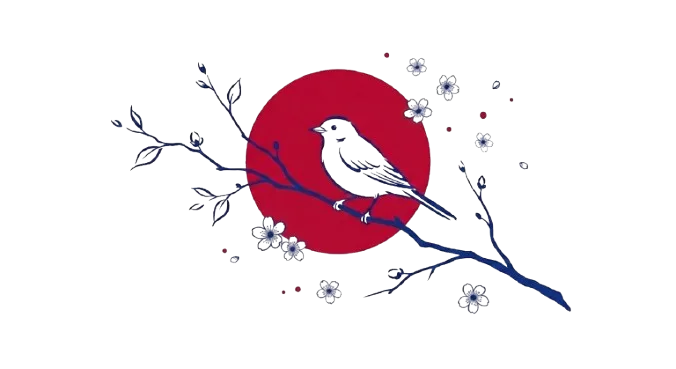
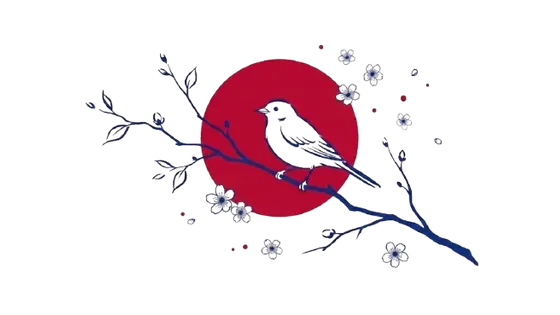
perf: remove hero video for LCP, resize hero.webp, fix contrast and headings
- Remove video element from hero entirely (was being picked as LCP candidate
  instead of the img, causing 410ms resource load delay)
- Resize hero.webp to 560x315 matching actual display size (28KB vs 30KB)
- Fix h4->h3 in About vision section (heading hierarchy skip)
- Fix text-white/20 timeline numbers -> text-white/40 (contrast)
- Fix ProductSpecs low-contrast text: /40->/60, /30->/50, /10->/30
- Add imagesrcset/imagesizes to hero preload hint

diff --git a/src/pages/Home.tsx b/src/pages/Home.tsx
@@ -127,67 +127,26 @@ function HomeProductCard({ product, index }: { product: any, index: number; key?
 }
 
 function HeroBackgroundVideo() {
-  const [isLoaded, setIsLoaded] = useState(false);
-  const videoRef = useRef<HTMLVideoElement>(null);
-
-  useEffect(() => {
-    // Defer video loading to improve FCP and prevent forced reflow
-    const timer = setTimeout(() => {
-      if (videoRef.current) {
-        // Use requestAnimationFrame to prevent forced reflow
-        requestAnimationFrame(() => {
-          if (videoRef.current) {
-            videoRef.current.load();
-            setIsLoaded(true);
-          }
-        });
-      }
-    }, 2000); // Increased delay to prevent blocking
-
-    return () => clearTimeout(timer);
-  }, []);
-
   return (
-    <>
-      {/* Static background: WebP with PNG fallback, fetchpriority=high for LCP */}
-      <div 
-        className="absolute inset-0 w-full h-full -z-10"
-        style={{ contain: 'layout style paint' }}
-      >
-        <picture>
-          <source srcSet="/hero.webp" type="image/webp" />
-          <img
-            src="/hero.png"
-            alt=""
-            aria-hidden="true"
-            fetchPriority="high"
-            loading="eager"
-            decoding="sync"
-            className="w-full h-full object-cover"
-            width="800"
-            height="600"
-          />
-        </picture>
-      </div>
-      {/* Video loads after 2s, fades in over the static image */}
-      <video 
-        ref={videoRef}
-        src="/hero_video.mp4" 
-        autoPlay
-        muted
-        loop
-        playsInline
-        preload="none"
-        aria-hidden="true"
-        className={`absolute inset-0 w-full h-full object-cover -z-10 transition-opacity duration-1000 ${isLoaded ? 'opacity-100' : 'opacity-0'}`}
-        style={{ 
-          willChange: 'opacity',
-          contain: 'layout style paint',
-        }}
-      >
-        <track kind="captions" srcLang="sq" label="Shqip" default />
-      </video>
-    </>
+    <div 
+      className="absolute inset-0 w-full h-full -z-10"
+      style={{ contain: 'layout style paint' }}
+    >
+      <picture>
+        <source srcSet="/hero.webp" type="image/webp" />
+        <img
+          src="/hero.png"
+          alt=""
+          aria-hidden="true"
+          fetchPriority="high"
+          loading="eager"
+          decoding="sync"
+          className="w-full h-full object-cover"
+          width="560"
+          height="315"
+        />
+      </picture>
+    </div>
   );
 }
 
@@ -267,7 +226,7 @@ export default function Home() {
                 >
                   <div className="w-full md:w-[42%] pl-12 md:pl-0 pr-0 md:pr-0 opacity-60 hover:opacity-100 transition-opacity duration-500">
                     <div className={index % 2 === 0 ? "text-right" : "text-left"}>
-                      <span className="font-serif text-4xl block mb-2 text-white/20">{item.id}</span>
+                      <span className="font-serif text-4xl block mb-2 text-white/40" aria-hidden="true">{item.id}</span>
                       <h3 className="font-serif text-3xl mb-3">{item.title}</h3>
                       <p className="text-white/70 text-base font-light">{item.desc}</p>
                     </div>

diff --git a/src/components/ProductSpecs.tsx b/src/components/ProductSpecs.tsx
@@ -19,12 +19,12 @@ export default function ProductSpecs({ tech, onOrderClick }: { tech: TechSpecs; 
             </div>
             <div>
               <h4 className="font-sans text-[10px] uppercase tracking-[0.4em] text-red-600 font-bold mb-1">Technical Blueprint</h4>
-              <p className="font-serif text-xs text-[#1a2b4b]/40 italic">Precision Engineering Details</p>
+              <p className="font-serif text-xs text-[#1a2b4b]/60 italic">Precision Engineering Details</p>
             </div>
           </div>
           <div className="text-right">
-            <span className="font-serif text-2xl text-[#1a2b4b]/10">{Object.keys(tech).length}</span>
-            <p className="font-sans text-[8px] uppercase tracking-[0.3em] text-[#1a2b4b]/30">Specs</p>
+            <span className="font-serif text-2xl text-[#1a2b4b]/30">{Object.keys(tech).length}</span>
+            <p className="font-sans text-[8px] uppercase tracking-[0.3em] text-[#1a2b4b]/50">Specs</p>
           </div>
         </div>
 
@@ -46,7 +46,7 @@ export default function ProductSpecs({ tech, onOrderClick }: { tech: TechSpecs; 
 
         {/* Footer note */}
         <div className="mt-8 text-center">
-          <p className="font-serif text-xs text-[#1a2b4b]/30 italic">
+          <p className="font-serif text-xs text-[#1a2b4b]/50 italic">
             Premium quality specifications for professional standards
           </p>
         </div>

diff --git a/index.html b/index.html
@@ -18,7 +18,7 @@
     <noscript><link rel="stylesheet" href="https://fonts.googleapis.com/css2?family=Montserrat:wght@300;400;500;700&family=Playfair+Display:ital,wght@0,400;0,500;0,700;1,400&display=swap" /></noscript>
 
     <!-- Preload critical LCP image (WebP with PNG fallback) -->
-    <link rel="preload" href="/hero.webp" as="image" type="image/webp" fetchpriority="high" />
+    <link rel="preload" href="/hero.webp" as="image" type="image/webp" fetchpriority="high" imagesrcset="/hero.webp" imagesizes="100vw" />
     <link rel="preload" href="/HaNeul_logo_sm.webp" as="image" type="image/webp" fetchpriority="low" />
 
     <meta name="theme-color" content="#1a2b4b" />

diff --git a/src/pages/About.tsx b/src/pages/About.tsx
@@ -165,7 +165,7 @@ export default function About() {
                 { title: "Standardi i Sigurisë", desc: "Certifikim dhe gjurmueshmëri e plotë për çdo produkt, duke garantuar origjinën." }
               ].map((item, i) => (
                 <motion.div key={i} className="border-l-2 border-red-600 pl-10">
-                  <h4 className="font-serif text-2xl md:text-3xl mb-4">{item.title}</h4>
+                  <h3 className="font-serif text-2xl md:text-3xl mb-4">{item.title}</h3>
                   <p className="opacity-70 text-base md:text-lg leading-relaxed">{item.desc}</p>
                 </motion.div>
               ))}
